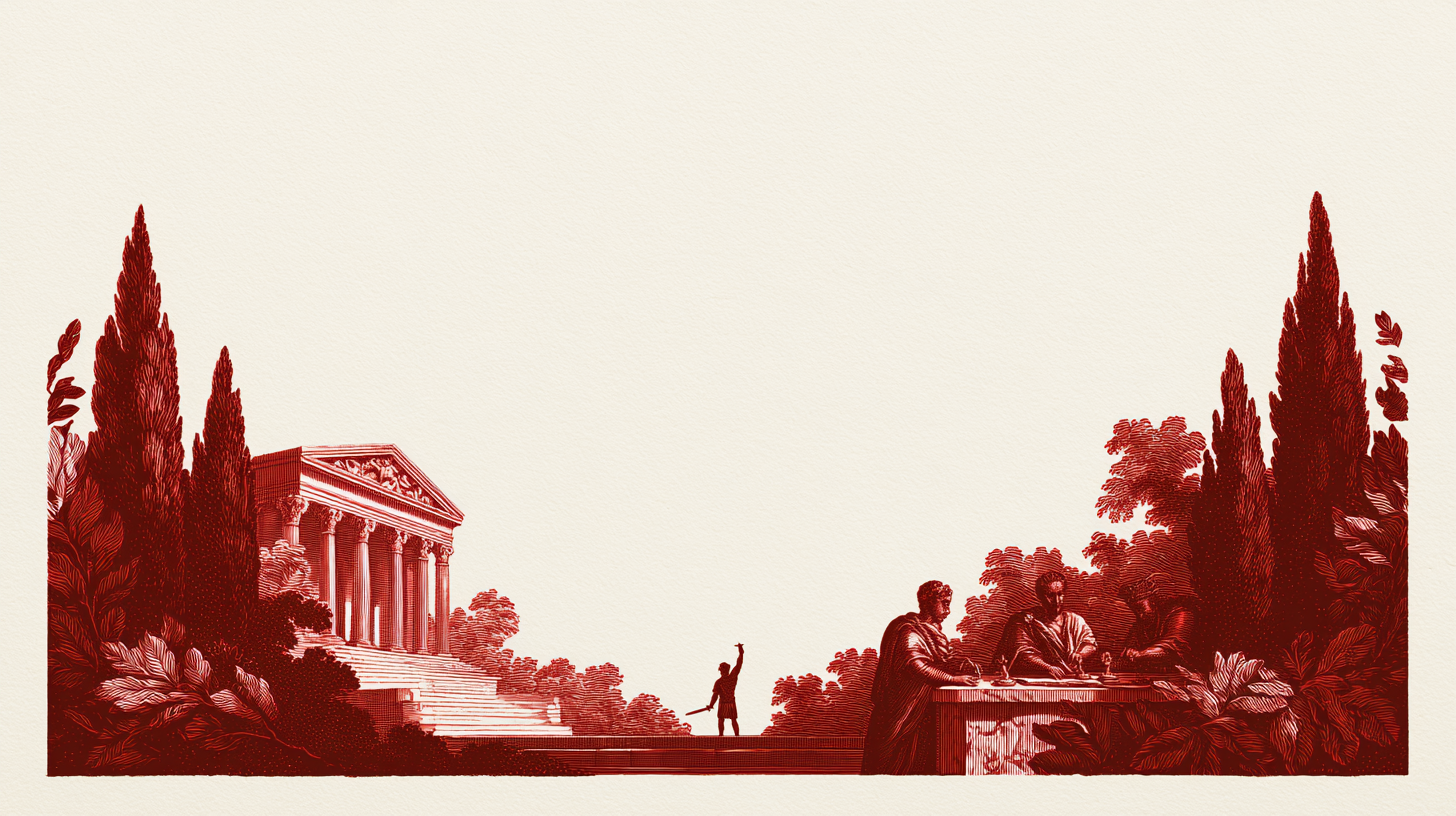
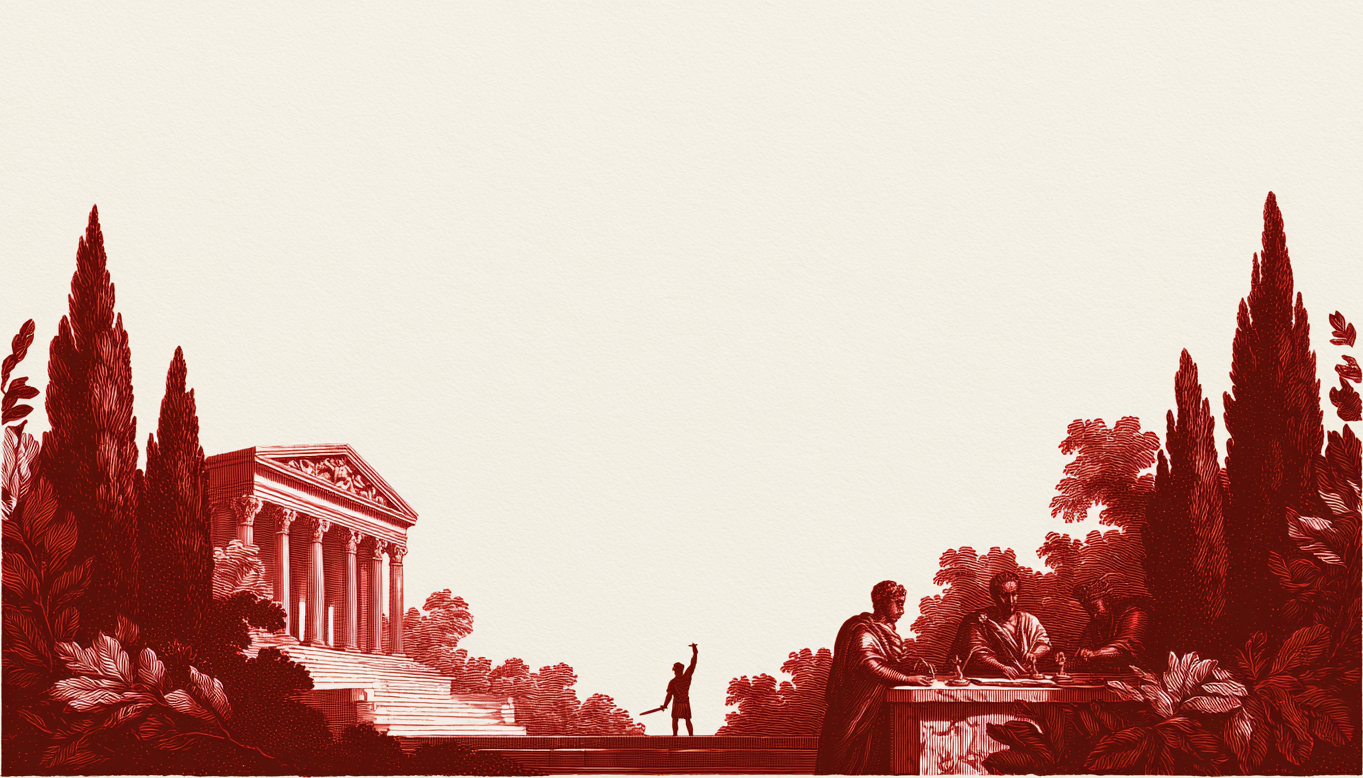
fix(landing): crop the plate's baked-in margins so the artwork bleeds
The engraving ships with a paper margin inside the file — 46px left, 47px right,
38px bottom. background-size:cover was bleeding the FILE to the viewport edges
correctly, but the artwork still floated inside it with paper all round, so the
hero did not read as full screen.

Cropped to the true ink bounds on those three sides: 1456x816 -> 1363x778. The
TOP band is deliberately untouched — that sky is the channel the headline sits
in, and cropping it would be cropping the thing that makes the lockup work.

Verified after cropping:
  - artwork now reaches every cropped edge (inked pixels present in column 0,
    column 1362 and row 777)
  - ink under the laid-out type is 0.0% for headline, eyebrow and both CTAs at
    1905x1080, 1905x800 and 1265x720, darkest luma 229-234
  - wordmark is unchanged in behaviour: clean at normal sizes, 11.4% ink at
    luma 20 on a short frame, which the existing gradient scrim already covers
    at 8.8:1

Ratio moves 1.784 -> 1.752, so at 1920x1080 cover goes back to trimming the top
(7px) rather than the sides.

Cropping also shaved 78KB, but this is still a 1.8MB PNG on the LCP element and
should be re-encoded to JPEG when an encoder is available.

Changed region(s): [[0.0, 0.2468, 1.0, 1.0]]

diff --git a/FRONTEND/src/components/CollateralHero.js b/FRONTEND/src/components/CollateralHero.js
@@ -30,8 +30,12 @@
  * ─────────────────────────────────────────────────────────────────────────────
  */
 
-const PLATE_W = 1456;
-const PLATE_H = 816;
+// Cropped from the 1456x816 source: the engraving ships with a paper margin
+// baked in (46px left, 47px right, 38px bottom), so cover bled the FILE to the
+// viewport edges while the artwork still floated inside it. Margins removed; the
+// top band is untouched because that sky is where the headline sits.
+const PLATE_W = 1363;
+const PLATE_H = 778;
 
 const QUEUE = [
     { id: '369', goal: '10,000 email leads in 30 days', who: '@growthlead', src: 'Shopify API', amount: '$1,200' },
@@ -147,7 +151,7 @@ export function renderCollateralHero(options = {}) {
 
            The hero is exactly ONE viewport tall so the whole thing sits in a
            single frame at scroll-top, with nothing cut off the bottom. cover +
-           bottom anchor is what makes that safe: the plate is 1456x816 and the
+           bottom anchor is what makes that safe: the plate is 1363x778 and the
            frame is usually taller in ratio, so something has to give, and what
            gives is the TOP BAND OF EMPTY SKY. The temple, the figures at the
            desk and the ground line are pinned to the bottom edge and never
